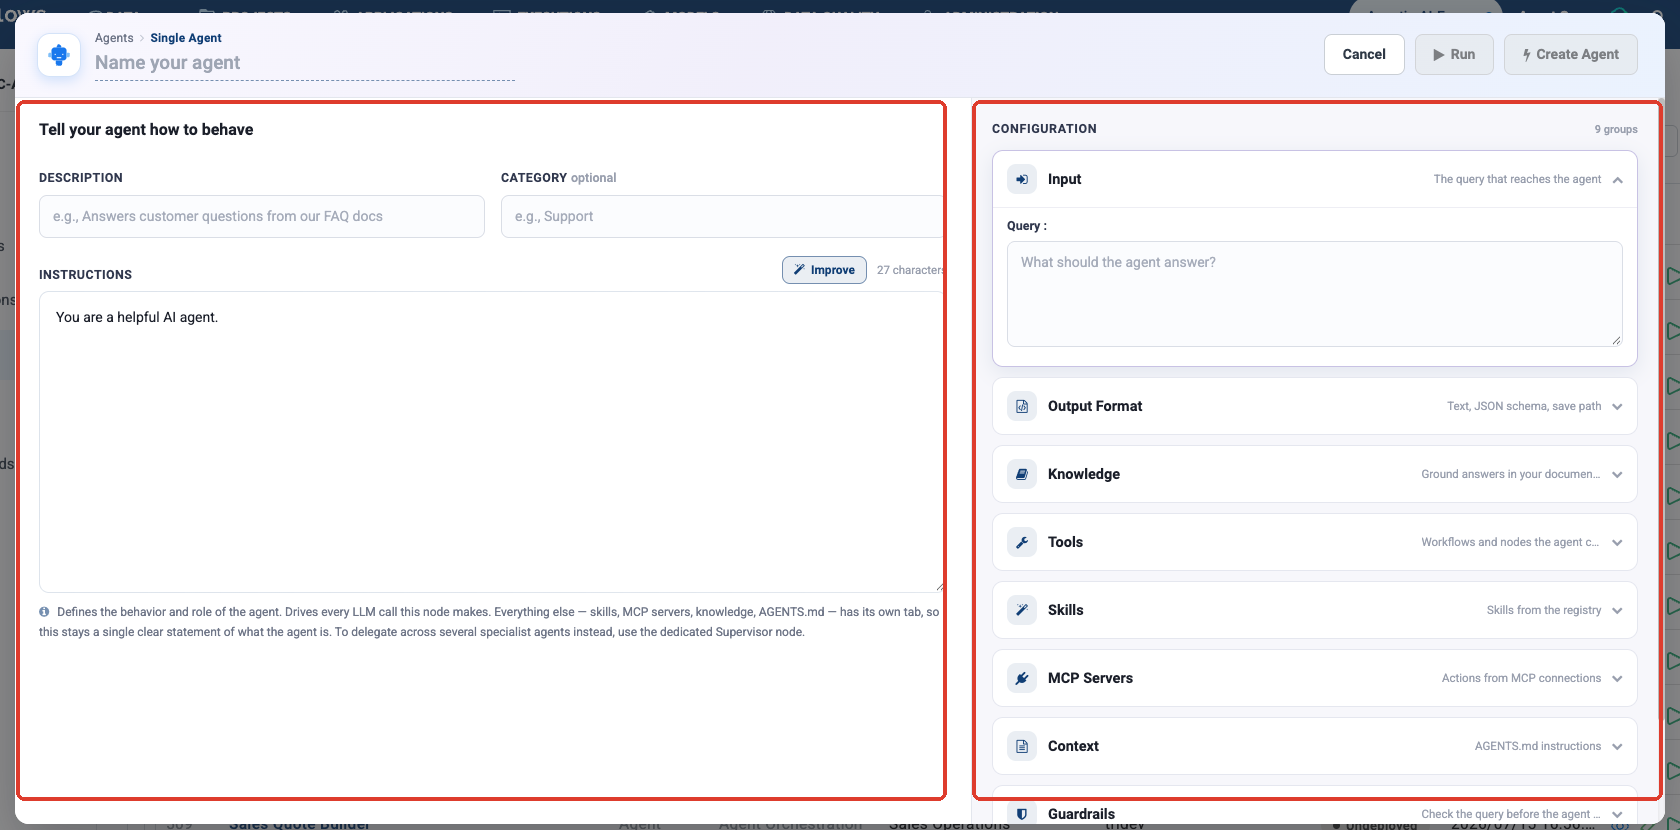
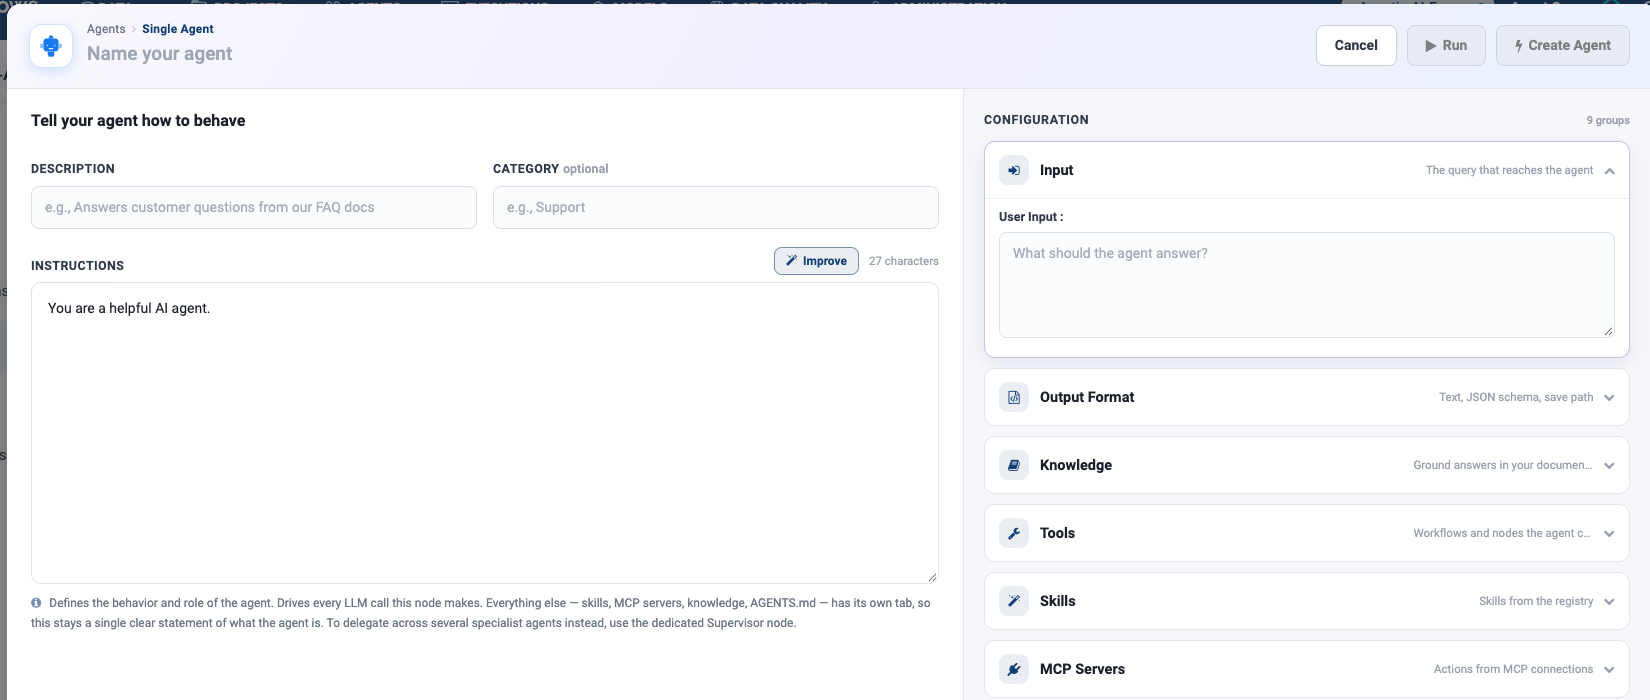
docs: clean up annotations and correct the approval prompt behaviour
Screenshots
- Removed the numbered badges and full-width boxes from every figure that still
  carried them: Agent Studio overview, the orchestration canvas, the Input node,
  the connector two-step screen, the MCP registry, the run trace, deployment
  status, the Create Agents menu and the Control palette. Recaptured each one
  clean from the live instance.
- No figure now contains a numbered badge or a label chip; annotation is a thin
  box around one element, and only where the figure has more than one candidate.

Human Approval
- Corrected: the Prompt to Approver IS interpolated. ${<node number>.analysis}
  substitutes that node's output before the reviewer sees it, verified on a live
  run. Documented the reference forms with a screenshot of the resolved prompt.
- Documented the reviewer path end to end: an Interrupted run on the Executions
  tab, the Resume Paused Run action, the Approve/Reject panel, and the decision
  kept on the finished run.
- Approvals are answered in the run view; Human Input is the node for asking the
  person something mid-conversation.

Also fixes a list-table parse error in concepts.rst and moves the node palette
figure inline so it no longer floats beside an empty column.

Changed region(s): [[0.0, 0.0, 1.0, 1.0], [0.2782, 0.21, 0.3709, 0.33], [0.6182, 0.72, 0.6491, 0.78]]

diff --git a/docs/agentic-ai-guide/human-in-the-loop.rst b/docs/agentic-ai-guide/human-in-the-loop.rst
@@ -51,7 +51,7 @@ The pattern that works has three parts:
 #. **Gate only that branch.**
 
 .. figure:: ../_assets/agentic-ai-guide/hitl/po-approver-canvas.png
-   :alt: Purchase Order Approver canvas with the Condition and Human Approval nodes highlighted
+   :alt: The Purchase Order Approver canvas, where a Condition routes high-value orders to a Human Approval gate
    :width: 95%
 
    The **Purchase Order Approver** example. Two Agent Nodes validate the PO and
@@ -72,8 +72,8 @@ Adding the node
 #. Drag **Human Approval** onto the canvas.
 
    .. figure:: ../_assets/agentic-ai-guide/hitl/palette-control.png
-      :alt: Control group of the node palette with Human Approval highlighted
-      :width: 302px
+      :alt: The Control group of the node palette, containing Human Approval and Human Input
+      :width: 300px
 
 #. Connect the branch that needs sign-off into its input.
 #. Wire both outputs:
@@ -120,22 +120,53 @@ Double-click the node.
        — an amount, a draft, a validator's assessment — so the person can decide
        without leaving the screen.
 
-.. important::
+Show the agent's own answer in the prompt
+-----------------------------------------
 
-   The prompt is shown to the reviewer **exactly as you type it**. It is not a
-   template — a ``${...}`` placeholder would be shown literally, not replaced
-   with a value. (Placeholders like that *are* substituted on the REST API
-   Client, MCP Tool and Workflow Execution nodes, which is where people
-   usually meet them.)
+The prompt is not just static text. Write ``${<node number>.<field>}`` and
+Sparkflows substitutes that node's output before the reviewer sees it — so the
+approver reads the agent's actual words, not a description of them.
 
-   You do not need them here. The reviewer opens the run, so every upstream
-   step's output is already on the screen next to the decision. Your job in the
-   prompt is to say **which** step to read:
+The node number is the one in the blue circle on the canvas, and ``analysis`` is
+the node's answer:
 
-   .. code-block:: text
+.. code-block:: text
 
-      Read the Refund Reviewer summary above, then approve or reject.
-      Approval issues the refund; rejection returns the case to the queue.
+   The Refund Reviewer said: ${2.analysis}
+
+   Approve to issue the refund, or reject to send it back to the queue.
+
+At run time that becomes:
+
+.. figure:: ../_assets/agentic-ai-guide/hitl/approval-pending.png
+   :alt: The approval prompt with the agent's answer substituted into it, above the comment boxes and the Approve and Reject buttons
+   :width: 100%
+
+.. list-table::
+   :header-rows: 1
+   :widths: 30 70
+
+   * - Reference
+     - What it pulls in
+   * - ``${2.analysis}``
+     - Node 2's answer — the usual one.
+   * - ``${2.confidence}``
+     - Any other field that node published.
+   * - ``${order_id}``
+     - A value from the Input node, by name.
+
+.. tip::
+
+   Put the value the decision turns on directly in the prompt. A reviewer who
+   has to go hunting for the amount will stop reading it and start clicking
+   **Approve**.
+
+.. note::
+
+   The same ``${...}`` references work on the REST API Client, MCP Tool and
+   Workflow Execution nodes. A reference that matches nothing is left in place
+   as literal text, which is your clue that the node number or field name is
+   wrong.
 
 Writing the approver prompt
 ---------------------------
@@ -193,10 +224,6 @@ The run opens with an **approval panel** at the top, carrying the node's title,
 the prompt you wrote, and two boxes — one for comments that travel with an
 approval, one for the reason that travels with a rejection.
 
-.. figure:: ../_assets/agentic-ai-guide/hitl/approval-pending.png
-   :alt: A paused run showing the approval title, prompt, comment boxes and the Approve and Reject buttons
-   :width: 100%
-
 Everything the reviewer needs to judge is on the same page: scroll down and the
 **Node Outputs** panel shows what each earlier step produced, including the
 agent's own recommendation.
@@ -216,11 +243,11 @@ and why.
 
 .. note::
 
-   Reviewing happens in the run view. A :doc:`chat assistant
-   </agentic-ai-guide/chat>` is a conversational front door, not a review queue
-   — send reviewers to **Agents → Executions**, or notify them with an
-   :doc:`Email Notification </agentic-ai-guide/node-reference>` node that links
-   to the run.
+   Approvals are answered in the run view, not in a
+   :doc:`chat assistant </agentic-ai-guide/chat>`. Send reviewers to
+   **Agents → Executions**, or tell them a run is waiting with an
+   :doc:`Email Notification </agentic-ai-guide/node-reference>` node. **Human
+   Input** is the node for asking the person something mid-conversation.
 
 How pause and resume actually work
 ----------------------------------

diff --git a/docs/agentic-ai-guide/multi-agent-orchestration.rst b/docs/agentic-ai-guide/multi-agent-orchestration.rst
@@ -77,9 +77,9 @@ Building a flow
    Purchase Order Approver that is a single ``po_id``, pre-filled with
    ``PO-2004`` so the example can be run immediately.
 
-   .. figure:: ../_assets/agentic-ai-guide/orchestration/input-node.png
+   .. figure:: ../_assets/agentic-ai-guide/nodes/input.png
       :alt: Input node configuration with a named parameter and test value
-      :width: 80%
+      :width: 100%
 
 #. **Drag nodes from the palette** onto the canvas in the order the work happens.
 #. **Connect them** by dragging from one node's output anchor to the next node's
